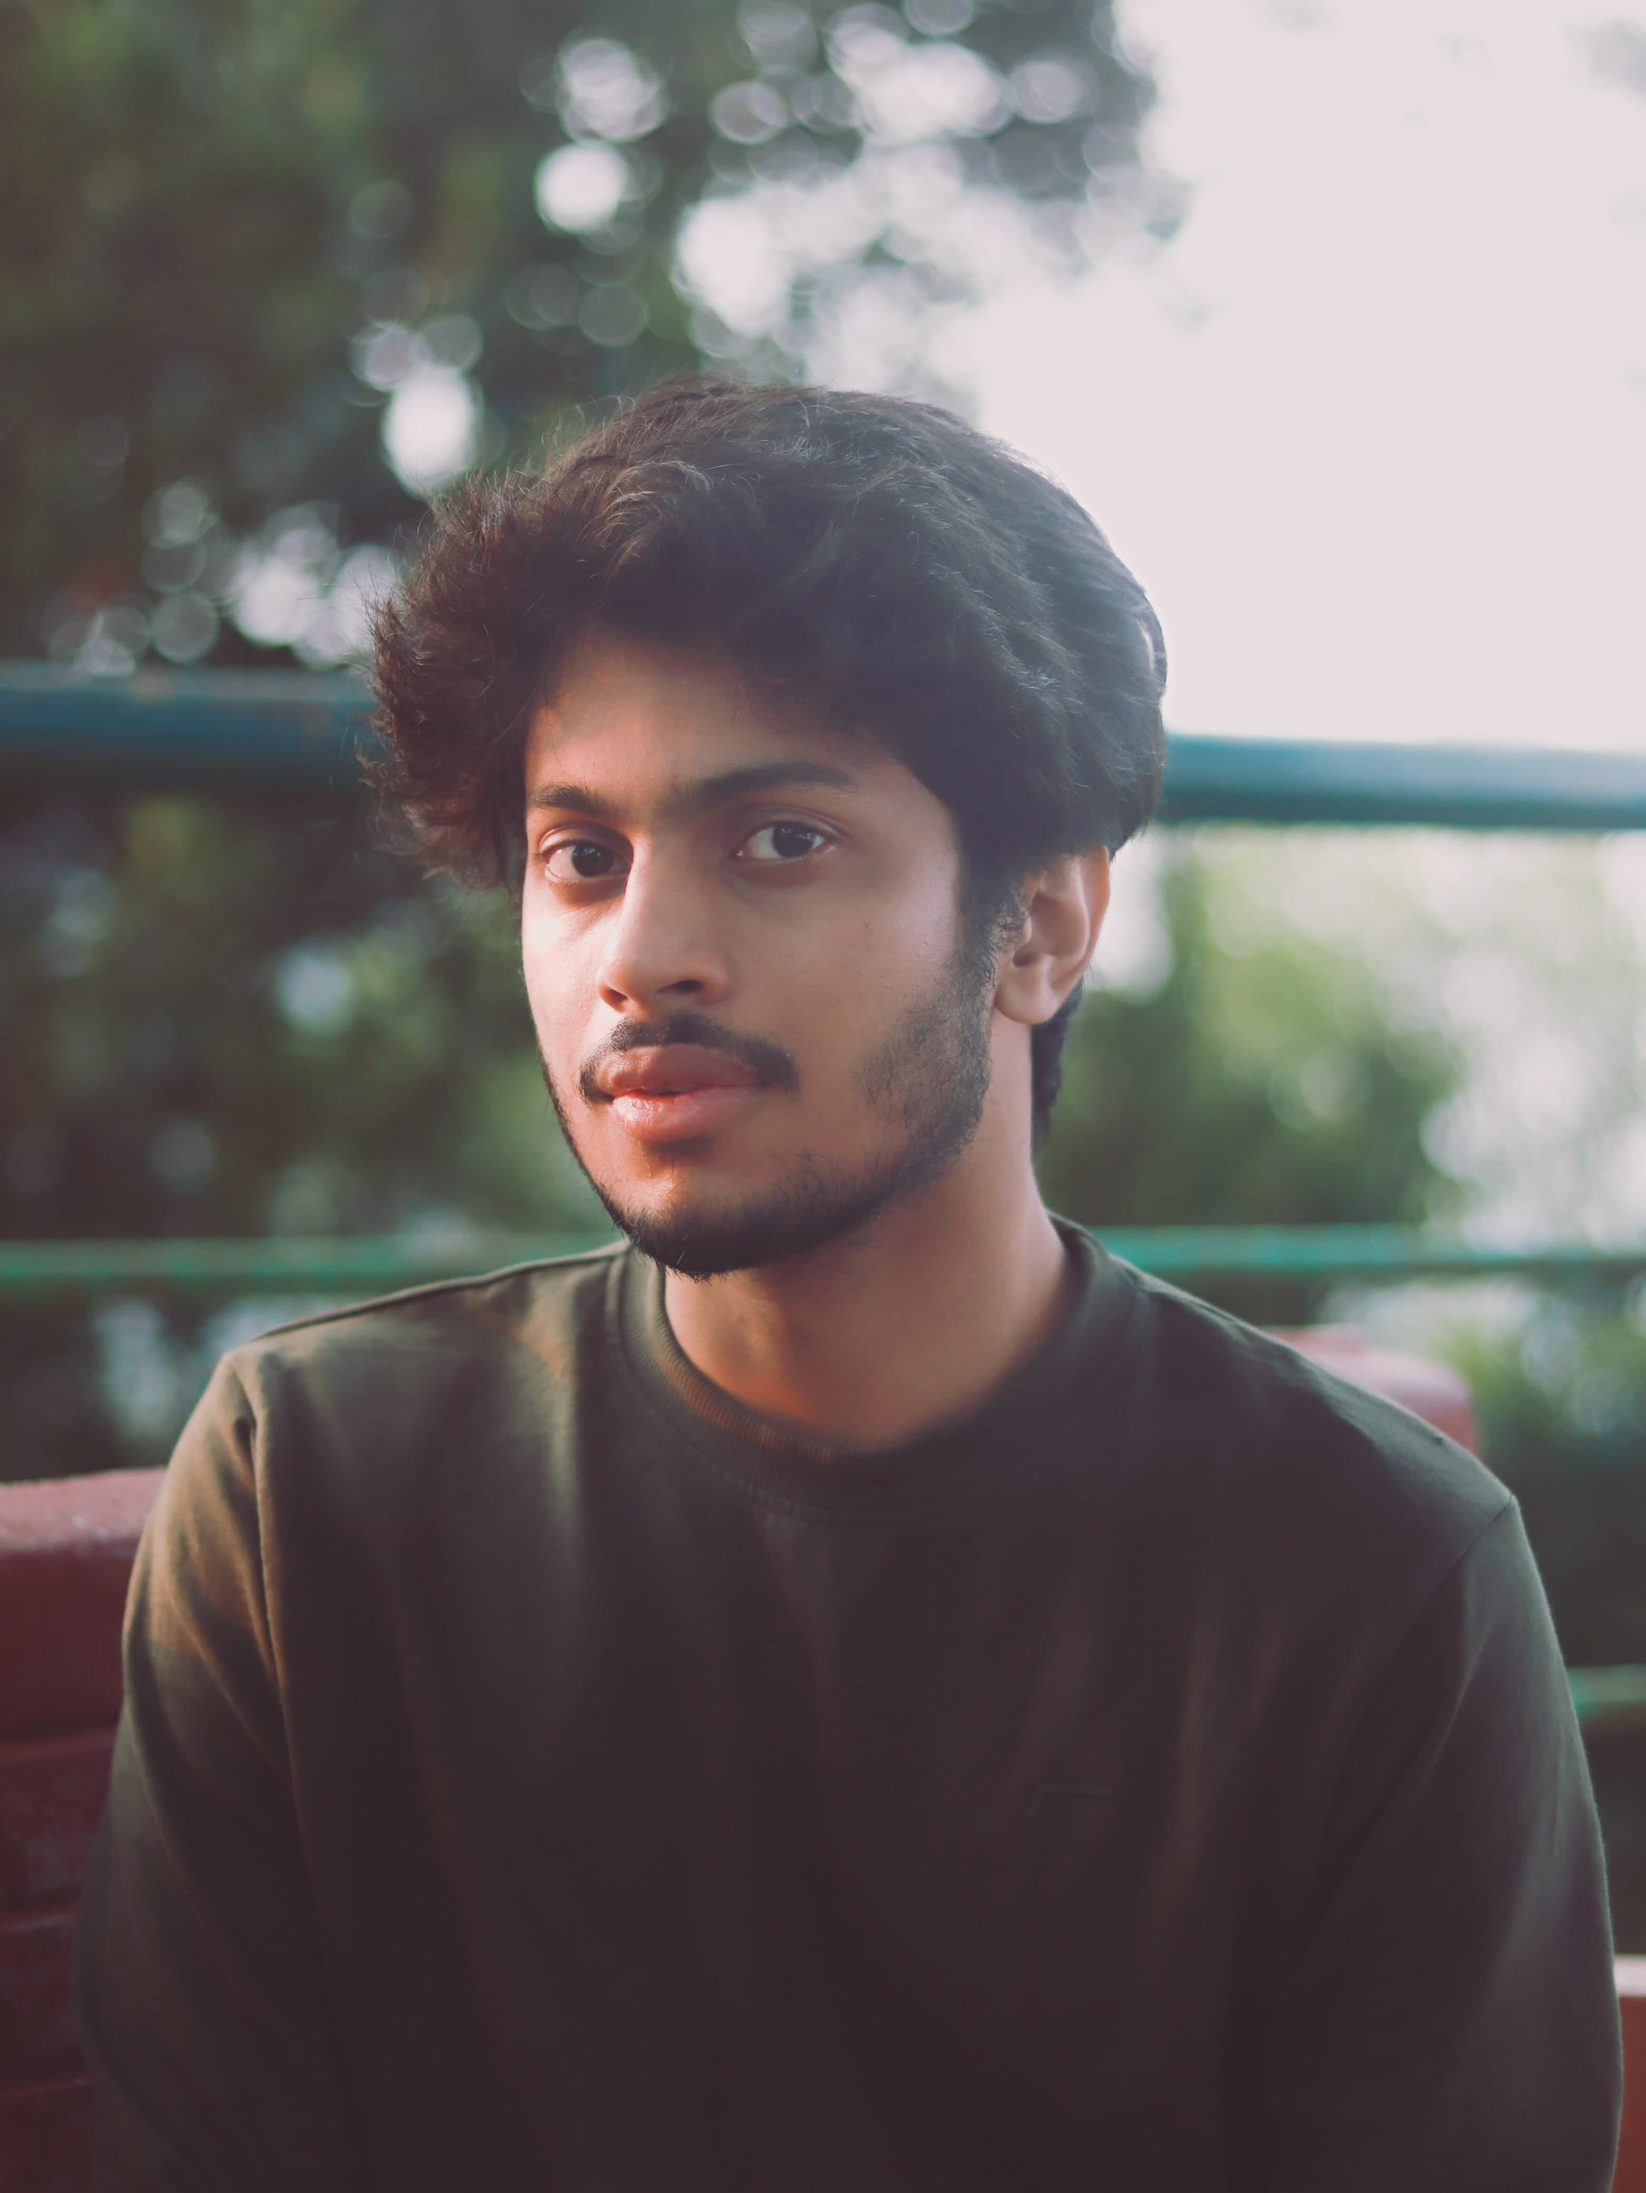
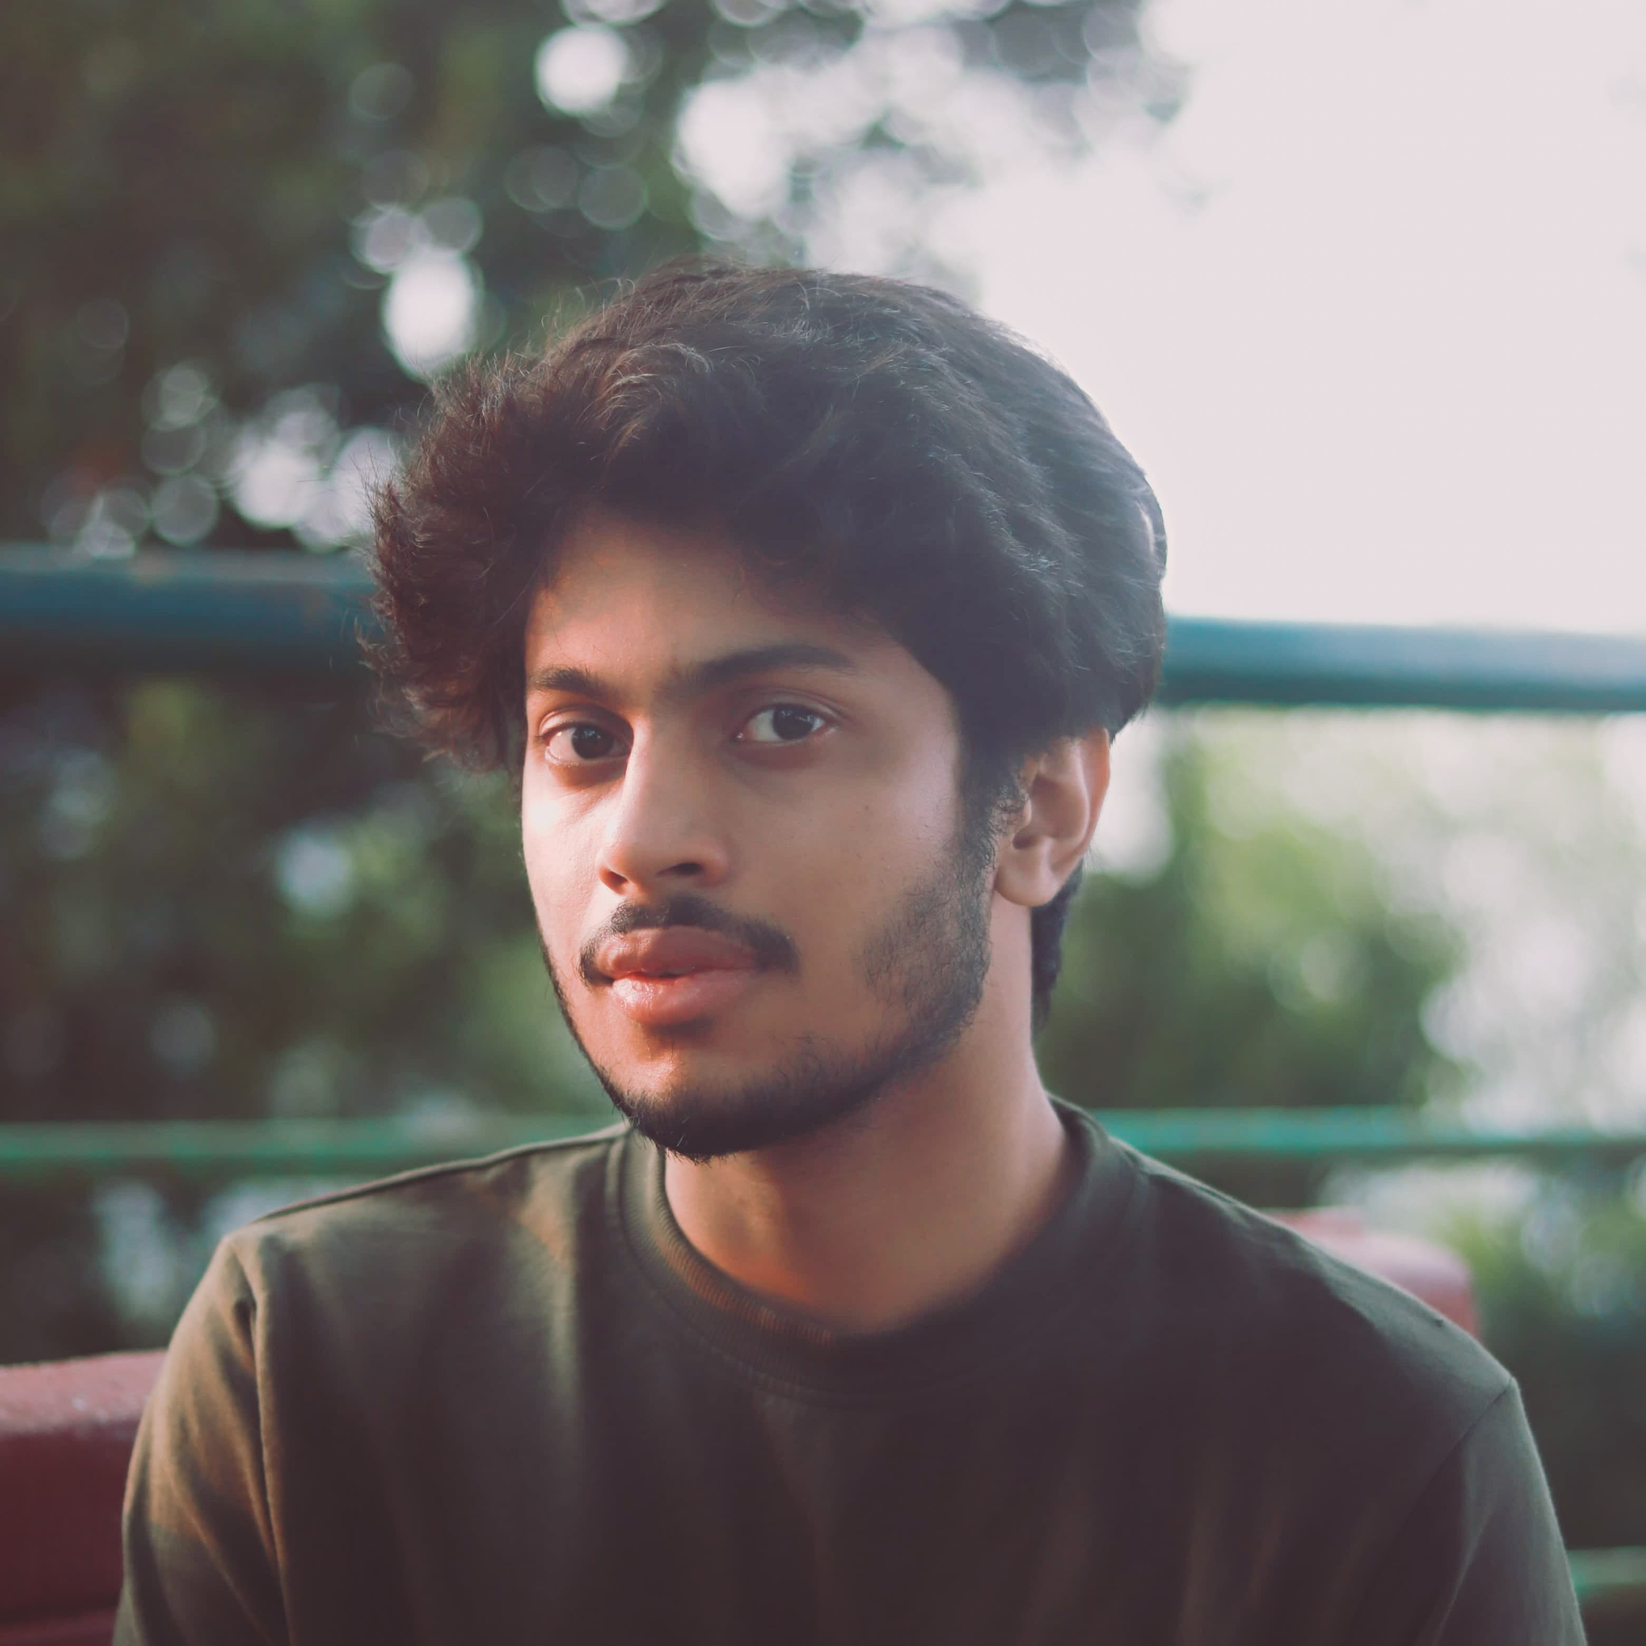
proper resizing

diff --git a/src/components/ui/avatar.tsx b/src/components/ui/avatar.tsx
@@ -12,7 +12,7 @@ const Avatar = React.forwardRef<
   <AvatarPrimitive.Root
     ref={ref}
     className={cn(
-      "relative flex h-[12rem] w-[10rem] shrink-0 overflow-hidden rounded-2xl",
+      "relative flex h-[12rem] w-[12rem] shrink-0 overflow-hidden rounded-2xl",
       className,
     )}
     {...props}

diff --git a/src/data/resume-data.tsx b/src/data/resume-data.tsx
@@ -74,7 +74,7 @@ export const RESUME_DATA = {
       company: "UST",
       link: "https://www.ust.com/",
       badges: ["Remote"],
-      title: "AI Research Intern",
+      title: "AI Intern",
       logo: JojoMobileLogo,
       start: "2021 Jun",
       end: "2021 Jul",
